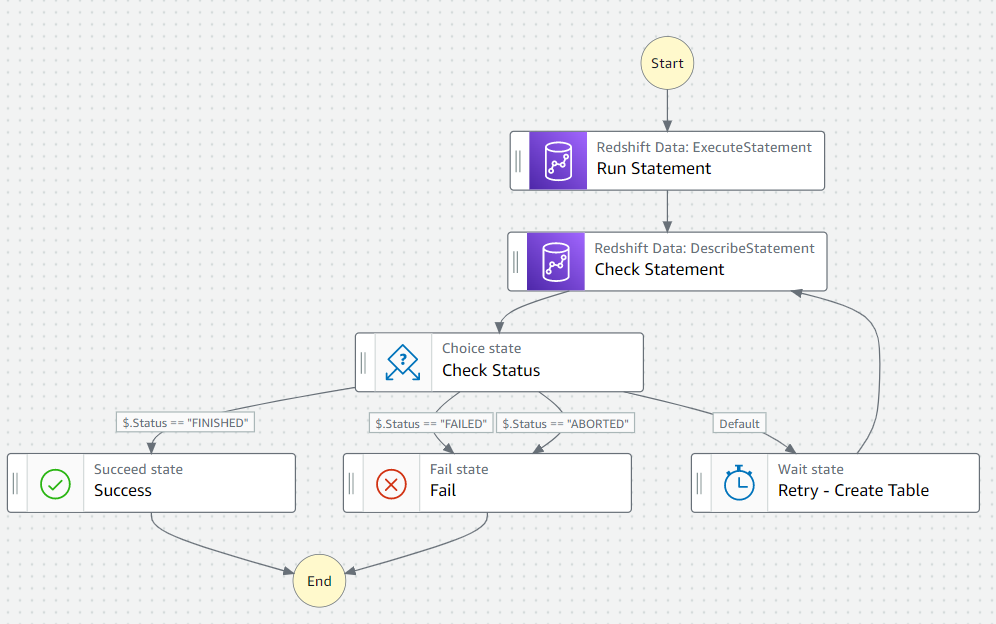
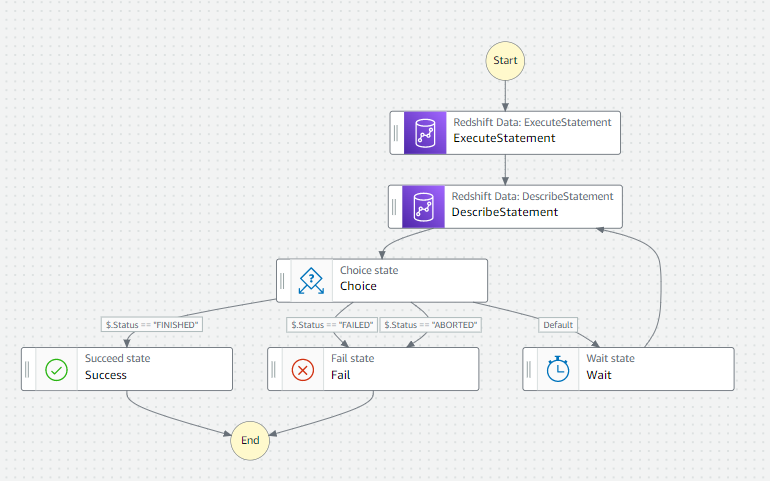
Updates and corrections

diff --git a/README.md b/README.md
@@ -1,4 +1,4 @@
-# Orchestrate-Data-Lake-and-Redshift-with-Step-Functions
+# Orchestrate Data Lake and Redshift with Step Functions
 This lab is provided as part of [AWS Innovate Data Edition](https://aws.amazon.com/events/aws-innovate/data/). Click [here](https://github.com/phonghuule/aws-innovate-data-edition-2022) to explore the full list of hands-on labs.
 
 :information_source: You will run this lab in your own AWS account and running this lab will incur some costs. Please follow directions at the end of the lab to remove resources to avoid future costs.
@@ -54,7 +54,7 @@ This template will create the following resources in your account:
 - Redshift cluster - sforchlab-warehouse-cluster - an empty state machine to be built in this lab, to orchestrate the process from end to end.
 
 1. Click on the following link to launch the CloudFormation process. Please double check you are in the correct account and region.
-[![Launch Stack](https://s3.amazonaws.com/cloudformation-examples/cloudformation-launch-stack.png)](https://console.aws.amazon.com/cloudformation/home?region=us-east-1#/stacks/new?stackName=sforchlab-foundation&templateURL=https://s3.amazonaws.com/ee-assets-prod-us-east-1/modules/1e02deca779a4be58b9d50513a464cdc/v1/sforchlab/sforchlab-template.json)
+[![Launch Stack](https://s3.amazonaws.com/cloudformation-examples/cloudformation-launch-stack.png)](https://us-east-1.console.aws.amazon.com/cloudformation/home?region=us-east-1#/stacks/new?stackName=sforchlab-foundation&templateURL=https://s3.amazonaws.com/ee-assets-prod-us-east-1/modules/1e02deca779a4be58b9d50513a464cdc/v1/sforchlab/sforchlab-template.json)
 2. On the "Create Stack" pages, the values should be pre-populated for you. Click Next.
 2. Under parameters, enter a password for the Redshift cluster. This password must between 8 and 64 characters in length, contain at least one uppercase letter, one lowercase letter, and one number, and can use any ASCII characters with ASCII codes 33–126, except \' (single quotation mark), \" (double quotation mark), \\, \/, or \@.
 3. For SubnetCIDR and VpcCIDR parameters values, default values have been suggested for use by the Redshift cluster instance. Please update these values as needed.
@@ -72,7 +72,7 @@ This template will create the following resources in your account:
 :information_source: If you are not already using Lake Formation, but do have resources using the AWS Glue Catalog, please consider impact carefully and permissions will need to be updated. These steps should be completed in a non-production/sandbox account.
 
 By default, AWS Lake Formation uses the IAMAllowedPrincipals group to provide super permissions to users and roles, effectively delegating access control to IAM policies. Before we can use AWS Lake Formation to manage access to our data, we need to revoke access provided by the IAMAllowedPrincipals group. In this way, IAM policies provide coarse grained permssions, while Lake Formation manages fine grained access control to catalog resources and data.
-1. Navigate to [AWS Lake Formation](https://console.aws.amazon.com/lakeformation/) in the AWS Management console. Confirm that you are in the correct region.
+1. Navigate to [AWS Lake Formation](https://us-east-1.console.aws.amazon.com/lakeformation/) in the AWS Management console. Confirm that you are in the correct region.
 2. The first time you use AWS Lake Formation, you need to configure an Adminstrator. On the "Welcome to Lake Formation" dialog, leave "Add myself" selected and click "Get started".
 ![](/images/lakeformation/welcome.PNG)
 3. Click on "Settings, and uncheck the 2 checkboxes under "Data catalog settings", then click "Save".
@@ -91,7 +91,7 @@ By default, AWS Lake Formation uses the IAMAllowedPrincipals group to provide su
 Before we can process the data, we need to grant some permissions in AWS Lake Formation. For this lab, to keep it simple, we're going to grant permissions on all tables in the database. In real use case, it's best practice to use more granular permissions.
 
 First, we'll grant permission for the Glue crawler to create tables in the Sales database.
-1. Navigate to [AWS Lake Formation](https://console.aws.amazon.com/lakeformation/) in the AWS Management console. Confirm that you are in the correct Region.
+1. Navigate to [AWS Lake Formation](https://us-east-1.console.aws.amazon.com/lakeformation/) in the AWS Management console. Confirm that you are in the correct Region.
 2. Click on "Data lake permissions" in the navigation pane, and click "Grant".
 3. Leave "IAM users and roles" selected, and choose the "sforchlab-GlueExecutionRole" in the "IAM users and roles" dropdown.
 ![](/images/lakeformation/grant-glue-principal.PNG)
@@ -126,7 +126,7 @@ Next, we're going to create a state machine to run AWS crawlers.
 
 :information_source: Note - for simplicity in this lab, we will be using a polling mechanism to confirm the completion of the crawler. In a real use case, you could instead use a Callback mechanism - use AWS EventBridge triggered by the change of state of the crawler to callback to the state machine to progress the flow. 
 
-1. Navigate to [AWS Step Functions](https://console.aws.amazon.com/states/) in the AWS Management Console. Confirm that you are in the correct Region.
+1. Navigate to [AWS Step Functions](https://us-east-1.console.aws.amazon.com/states/) in the AWS Management Console. Confirm that you are in the correct Region.
 2. Click on "State machines" in the navigate panel. Click on the "sfochlab-RunGlueCrawler" state machine from the list.
 3. Click the "Edit" button, then click the "Workflow Studio" button in the right hand corner.
 
@@ -144,6 +144,7 @@ Next, we're going to create a state machine to run AWS crawlers.
 }
 ```
 ![](/images/stepfunctions/gluecrawler-2.PNG)
+
 6. On the Output tab of the "StartCrawler" activity, mark the checkbox next to "Transform result with ResultSelector...", and add the following into the text box:
 ```
 {
@@ -155,6 +156,7 @@ Next, we're going to create a state machine to run AWS crawlers.
 $.Status
 ```
 ![](/images/stepfunctions/gluecrawler-3.PNG)
+
 8. Click on the GetCrawler state, and enter the following under "API Parameters":
 ```
 {
@@ -162,11 +164,13 @@ $.Status
 }
 ```
 ![](/images/stepfunctions/gluecrawler-4.PNG)
+
 9. On the "Output" tab, mark "Add original input to output...". Leave "Combine original input with result" selected, and enter the following into the textbox:
 ```
 $.GetCrawler
 ```
 ![](/images/stepfunctions/gluecrawler-5.PNG)
+
 10. Click on the "Rule #1" path from the "Choice" state, and click "Add conditions". Set the values as shown below:
 - Variable = $.GetCrawler.Crawler.State
 - Operator = is equal to
@@ -183,13 +187,13 @@ This state machine can now be used by other state machines to run a glue crawler
 
 Next, we're going to create a state machine to run Amazon Redshift SQL statements.
 
-1. Navigate to [AWS Step Functions](https://console.aws.amazon.com/states/) in the AWS Management Console. Confirm that you are in the correct Region.
+1. Navigate to [AWS Step Functions](https://us-east-1.console.aws.amazon.com/states/) in the AWS Management Console. Confirm that you are in the correct Region.
 2. Click on "State machines" in the navigate panel. Click on the "sfochlab-RedshiftQuery" state machine from the list.
 3. Click the "Edit" button, then click the "Workflow Studio" button in the right hand corner.
 4. Design your state machine as shown in the following diagram.
 ![](/images/stepfunctions/redshift-1.PNG)
 
-:information_source: To form the loop back from the "Wait" state to the "GetCrawler" state, click on the "Wait" state and select "GetCrawler" from the "Next state" dropdown.
+:information_source: To form the loop back from the "Wait" state to the "DescribeStatement" state, click on the "Wait" state and select "DescribeStatement" from the "Next state" dropdown.
 
 :information_source: You can click and drag the "Success" state from one path to the other.
 
@@ -203,6 +207,7 @@ Next, we're going to create a state machine to run Amazon Redshift SQL statement
 }
 ```
 ![](/images/stepfunctions/redshift-2.PNG)
+
 6. Click on "DescribeStatement", and enter the following under "API Parameters".
 ```
 {
@@ -239,7 +244,7 @@ This state machine can now be used by other state machines to run a SQL statemen
 
 Now that we've created our reusable state machines, let's create the process to orchestrate the full data pipeline.
 
-1. Navigate to [AWS Step Functions](https://console.aws.amazon.com/states/) in the AWS Management Console. Confirm that you are in the correct Region.
+1. Navigate to [AWS Step Functions](https://us-east-1.console.aws.amazon.com/states/) in the AWS Management Console. Confirm that you are in the correct Region.
 2. Click on "State machines" in the navigate panel. Click on the "sforchlab-dataPipelineOrchestration" state machine from the list.
 3. Click the "Edit" button, then click the "Workflow Studio" button in the right hand corner.
 4. Design your state machine as shown in the following diagram.
@@ -288,7 +293,7 @@ Now that we've created our reusable state machines, let's create the process to 
   }
 }
 ```
-11. Click on the "Redshift: Load Data" state, and enter the following under "API Parameters". Make sure you replace all instances of the values of "\<Region\>" and "\<AccountId\>".
+11. Click on the "Redshift: Load Data" state, and enter the following under "API Parameters". Make sure you replace all instances of the values of "\<Region\>" and "\<AccountId\>" - Important: <AccountId> needs to be replaced in 3 places: in the StateMachineArn, in the bucket name and in the ARN for the RedshiftExecutionRole.
 ```
 {
   "StateMachineArn": "arn:aws:states:<Region>:<AccountId>:stateMachine:sforchlab-RedshiftQuery",
@@ -308,7 +313,7 @@ Now that we've created our reusable state machines, let's create the process to 
   }
 }
 ```
-13. Click on the "Redshift: Unload" state, and enter the following under "API Parameters". Make sure you replace all instance of the values of "\<Region\>" and "\<AccountId\>".
+13. Click on the "Redshift: Unload" state, and enter the following under "API Parameters". Make sure you replace all instance of the values of "\<Region\>" and "\<AccountId\>". Important: <AccountId> needs to be replaced in 3 places: in the StateMachineArn, in the bucket name and in the ARN for the RedshiftExecutionRole.
 ```
 {
   "StateMachineArn": "arn:aws:states:<Region>:<AccountId>:stateMachine:sforchlab-RedshiftQuery",
@@ -338,7 +343,7 @@ Now that we've created our reusable state machines, let's create the process to 
 1. In Step Functions, click on the "sforchlab-dataPipelineOrchestration" state machine, then click "Start execution". 
 2. In the popup, leave the default input, and click "Start execution".
 3. This should may take up to 10 minutes to complete.
-4. Navigate to [Amazon Athena](https://console.aws.amazon.com/athena) in the AWS Management Console. Confirm that you are in the correct Region.
+4. Navigate to [Amazon Athena](https://us-east-1.console.aws.amazon.com/athena) in the AWS Management Console. Confirm that you are in the correct Region.
 5. If this is the first time you're using Amazon Athena, click the "Explore the query editor" button; otherwise, click on "Query editor" in the navigation panel.
 6. Click on the "Settings" tab, then click on the "Manage" button.
 7. In the "Manage settings" page, for "Query result location and encryption" browse to the bucket named "<accountID>-sforchlab-athena", then click "Save".
@@ -354,7 +359,7 @@ SELECT * FROM "sales"."aggregated_daily_sales_revenue" limit 10;
 ## Clean Up
 
 ### Empty the S3 buckets
-1. To delete the contents of the S3 buckets, navigate to [Amazon S3](https://console.aws.amazon.com/s3) in the AWS Management Console. 
+1. To delete the contents of the S3 buckets, navigate to [Amazon S3](https://us-east-1.console.aws.amazon.com/s3) in the AWS Management Console. 
 2. For each bucket created in this lab, select the radio button next to the bucket, then click "Empty". 
 3. Enter the text to confirm and delete the contents.
 4. Complete these steps for both -datalake and the -athena buckets.
